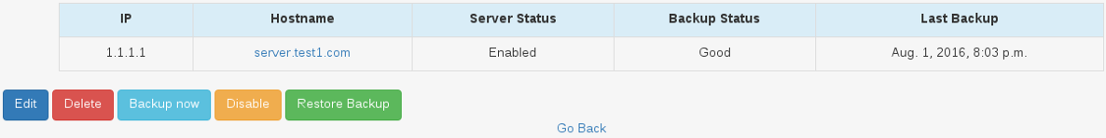
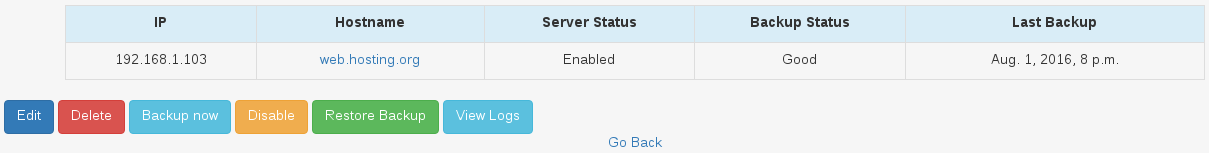
Update Screenshots

diff --git a/README.md b/README.md
@@ -17,6 +17,8 @@ RsyncHero is a threaded backup solution, It works on speeding and optimizing the
 ![](https://raw.githubusercontent.com/RamyAllam/RsyncHero/master/rsynchero_web/screenshots/bkp_monitor.png)
 #### Restore Backup
 ![](https://raw.githubusercontent.com/RamyAllam/RsyncHero/master/rsynchero_web/screenshots/restore_bkp.png)
+#### View Logs
+![](https://raw.githubusercontent.com/RamyAllam/RsyncHero/master/rsynchero_web/screenshots/view_logs.png)
 
 ## Requirements
 - Python3 with SQLite enabled
